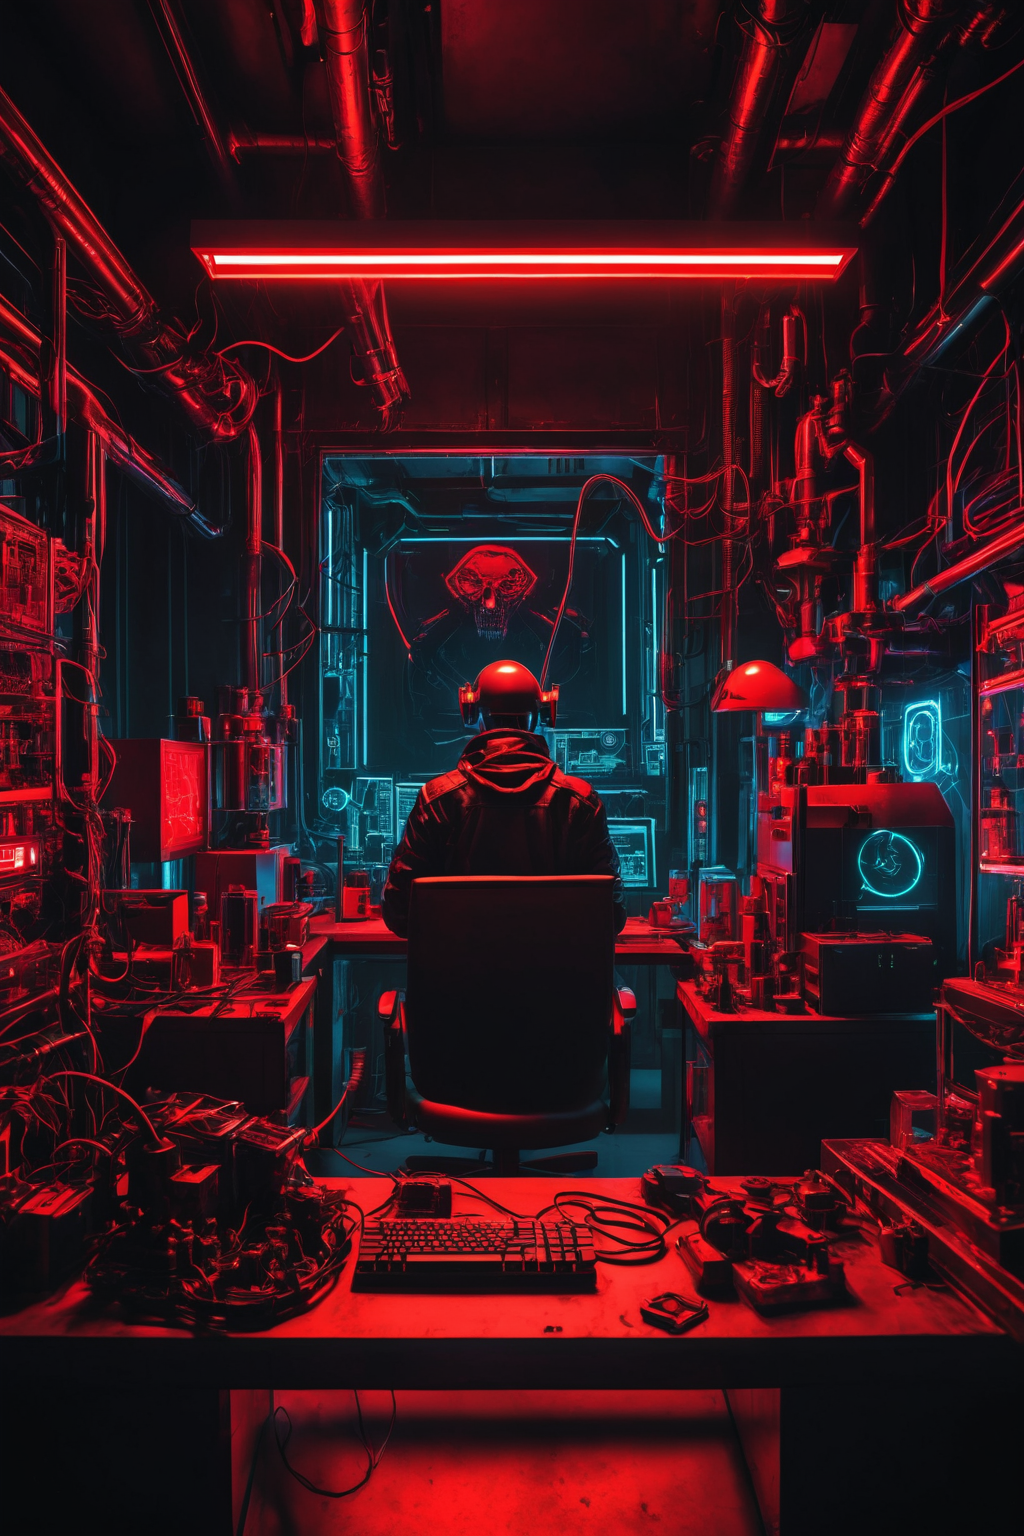
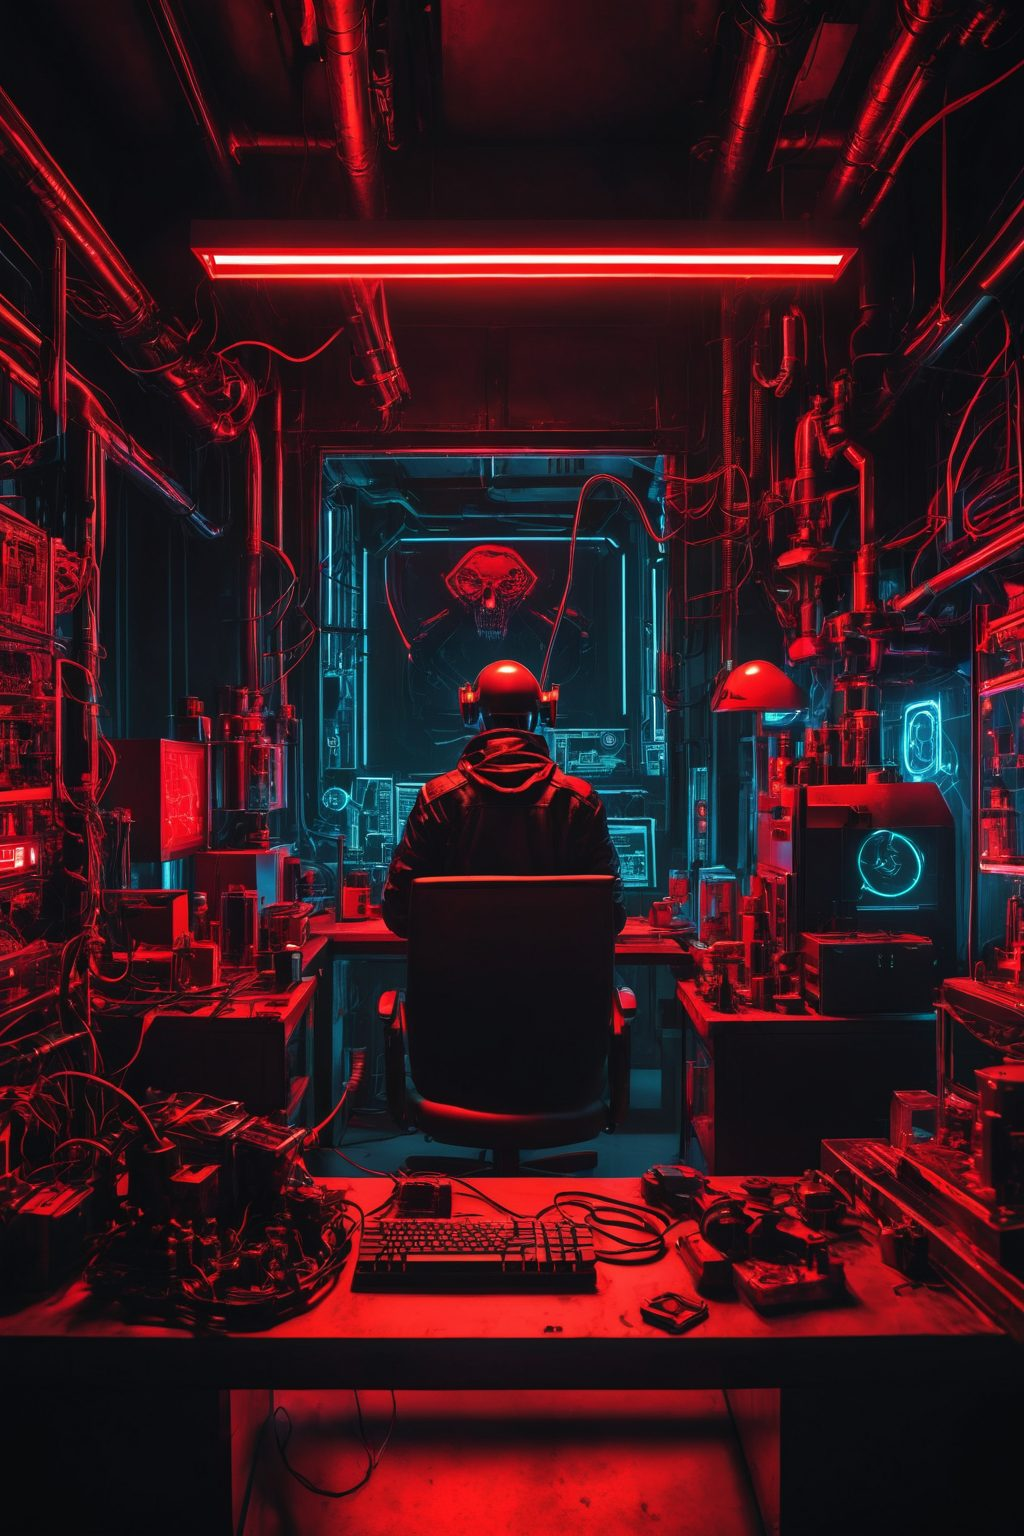
landing: compress Landing.jpeg + content-visibility on long sections
- assets/Landing.jpeg: re-encoded 1949 KB → 218 KB (q82 progressive).
  The earlier landing commit shipped the uncompressed source by mistake.
- content-visibility:auto + contain-intrinsic-size on manifesto / rites /
  how-section / lab / cta-final so the browser skips rendering work for
  offscreen sections (pure scroll win, no visual change).

Changed region(s): [[0.4062, 0.7812, 0.5, 0.8125], [0.5312, 0.7812, 0.5625, 0.8125], [0.3438, 0.7812, 0.375, 0.8125]]

diff --git a/docs/index.html b/docs/index.html
@@ -318,6 +318,12 @@
     .reveal{opacity:0;transform:translateY(24px);transition:opacity 0.7s ease,transform 0.7s ease}
     .reveal.in{opacity:1;transform:translateY(0)}
 
+    /* ─ skip rendering for offscreen long sections ─ */
+    .manifesto,.rites,.how-section,.lab,.cta-final{
+      content-visibility:auto;
+      contain-intrinsic-size:1px 800px;
+    }
+
     @media(max-width:760px){
       .header{padding:14px 18px;gap:14px}
       .header-nav{gap:4px}
